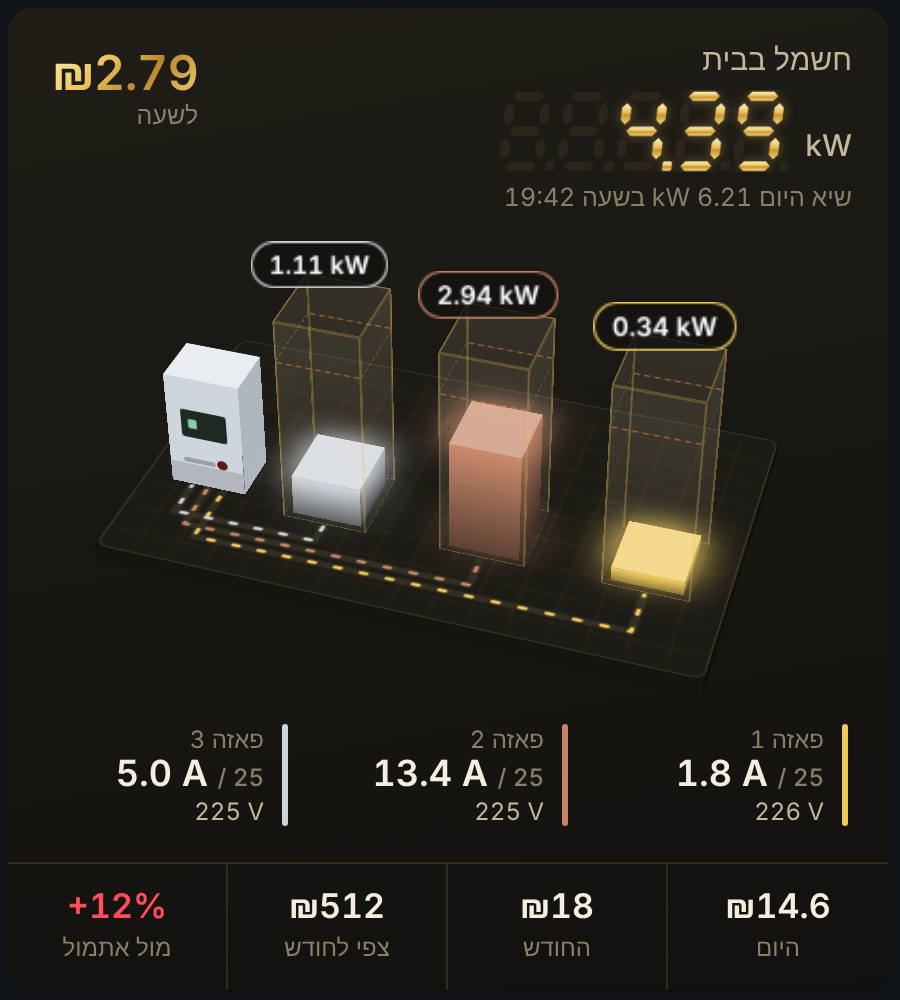
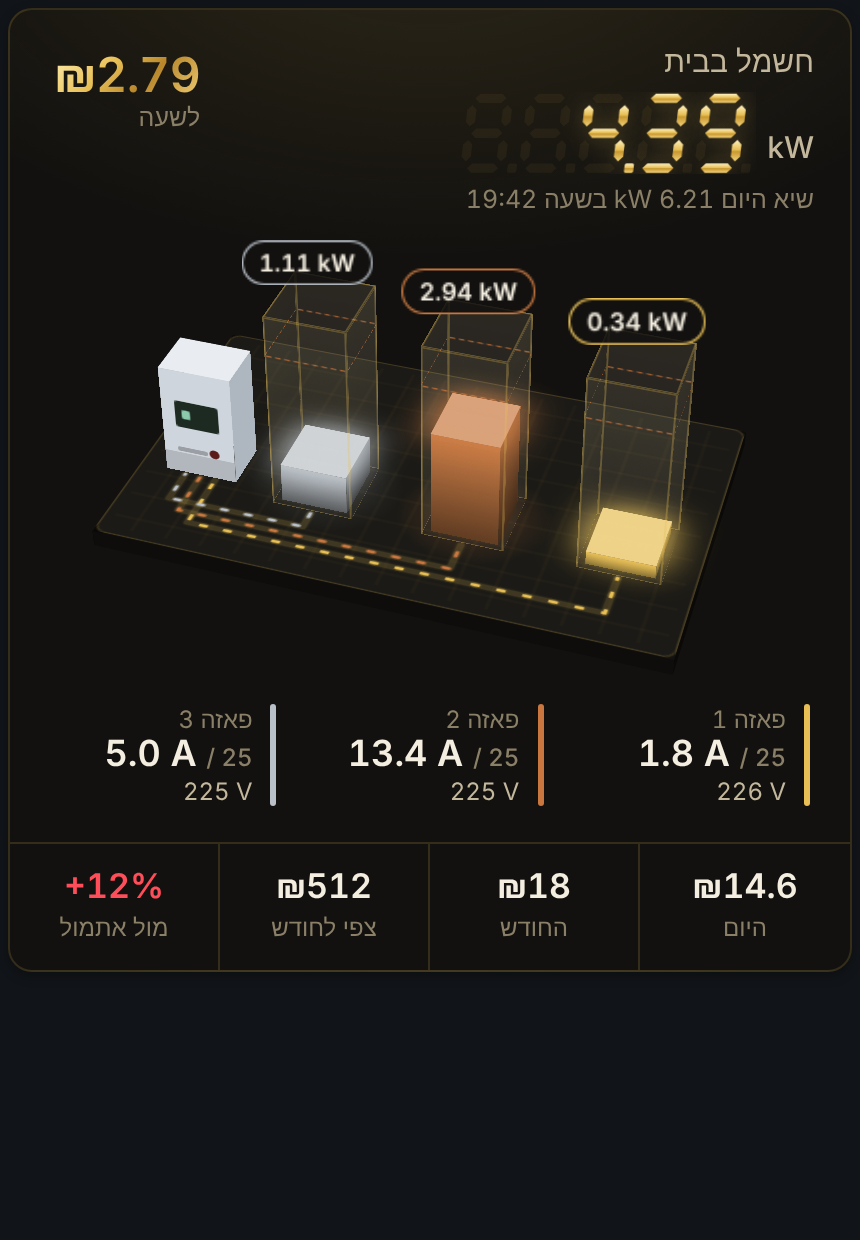
3D card: gold look uses the reader UI's black-gold background in every theme
Claude-Session: https://claude.ai/code/session_01PjC1qJCvEgdXEYctX4qpRp

diff --git a/homeassistant/card/iec-p1-3d-card.js b/homeassistant/card/iec-p1-3d-card.js
@@ -91,7 +91,7 @@ function defaultEntities(meterPrefix) {
 // Phase colours. "gold" matches the reader's own web interface (gold, copper,
 // silver like busbar metals); "classic" is the original cyan/violet/amber.
 const PALETTES = {
-  gold: ["#f0c95c", "#c58468", "#cdd3da"],
+  gold: ["#e8bf55", "#c9773f", "#b9c0c8"],
   classic: ["#2ec5f0", "#9b7cff", "#ffb23e"],
 };
 let PHASE_COLORS = PALETTES.gold;
@@ -237,57 +237,40 @@ const STYLE = `
   --tag-ink: #17212c;
   --focus: #0a6fd6;
 }
-/* gold look (default) */
+/* gold look (default): the same black-and-gold as the reader's own web page,
+   in every Home Assistant theme */
 :host([look="gold"]) {
-  --scene-a: #201d17;
-  --scene-b: #12110f;
   --ink: #f4eee0;
   --ink-2: #c3b79c;
   --ink-3: #8a7f67;
-  --rule: rgba(232, 191, 85, 0.14);
-  --floor: #1d1b16;
-  --floor-edge: #3a3326;
-  --slab-s: #16140f;
-  --slab-e: #110f0b;
+  --rule: rgba(232, 191, 85, 0.16);
+  --floor: #1b1a16;
+  --floor-edge: rgba(232, 191, 85, 0.22);
+  --slab-s: #0e0d0b;
+  --slab-e: #0a0908;
   --grid: rgba(232, 191, 85, 0.06);
   --glass: rgba(255, 236, 190, 0.03);
   --glass-hi: rgba(255, 236, 190, 0.08);
   --glass-edge: rgba(232, 191, 85, 0.3);
-  --lcd-off: rgba(232, 191, 85, 0.07);
-  --lcd-glow: rgba(232, 191, 85, 0.4);
-  --tag-bg: rgba(18, 17, 15, 0.82);
+  --lcd-off: rgba(232, 191, 85, 0.06);
+  --lcd-glow: rgba(232, 191, 85, 0.35);
+  --tag-bg: rgba(18, 17, 15, 0.85);
+  --tag-ink: #f4eee0;
   --focus: #fff3c4;
 }
-:host([look="gold"][theme="light"]) {
-  --scene-a: #fbf7ee;
-  --scene-b: #efe6d2;
-  --ink: #2a2214;
-  --ink-2: #6b5a3a;
-  --ink-3: #93825f;
-  --rule: rgba(150, 110, 30, 0.16);
-  --floor: #fffdf8;
-  --floor-edge: #d9c9a3;
-  --slab-s: #e6d8b8;
-  --slab-e: #d6c49c;
-  --grid: rgba(150, 110, 30, 0.08);
-  --glass: rgba(150, 110, 30, 0.04);
-  --glass-hi: rgba(150, 110, 30, 0.08);
-  --glass-edge: rgba(150, 110, 30, 0.32);
-  --lcd-off: rgba(150, 110, 30, 0.08);
-  --lcd-glow: transparent;
-  --tag-bg: rgba(255, 253, 248, 0.94);
-  --tag-ink: #2a2214;
-  --focus: #8a6418;
+:host([look="gold"]) ha-card {
+  background:
+    radial-gradient(120% 60% at 50% -10%, rgba(232, 191, 85, 0.13), transparent 60%),
+    #12110f;
+  border: 1px solid rgba(232, 191, 85, 0.16);
 }
-:host([look="gold"]) .lcd svg .on { fill: url(#lcdgold); }
-:host([look="gold"][theme="light"]) .lcd svg .on { fill: #8a6418; }
+:host([look="gold"]) .lcd svg .on { fill: url(#lcdgold); filter: drop-shadow(0 0 6px rgba(232, 191, 85, 0.35)); }
 :host([look="gold"]) .rate-val {
   background: linear-gradient(135deg, #fff1b8 0%, #e8bf55 38%, #b8862b 62%, #f2d27a 100%);
   -webkit-background-clip: text;
   background-clip: text;
   color: transparent;
 }
-:host([look="gold"][theme="light"]) .rate-val { background: none; color: #8a6418; }
 ha-card {
   overflow: hidden;
   background: linear-gradient(170deg, var(--scene-a), var(--scene-b));
@@ -965,7 +948,8 @@ class IecP13dCard extends HTMLElement {
     if (!this._hass || !this._config) return;
     if (this._built && !this._changed()) return;
     const dark = this._hass.themes?.darkMode;
-    this.setAttribute("theme", dark === false ? "light" : "dark");
+    const gold = this._config.style !== "classic";
+    this.setAttribute("theme", gold || dark !== false ? "dark" : "light");
     if (!this._built) { this._build(); this._changed(); }
 
     const t = this._t();

diff --git a/README.md b/README.md
@@ -167,7 +167,7 @@ type: custom:iec-p1-3d-card
 | אפשרות | ברירת מחדל | מה היא עושה |
 |---|---|---|
 | `title` | חשמל בבית | הכותרת |
-| `style` | `gold` | `gold` כמו ממשק הקורא, או `classic` בצבעי תכלת, סגול וענבר |
+| `style` | `gold` | `gold`: שחור וזהב כמו ממשק הקורא, בכל ערכת נושא. `classic`: תכלת, סגול וענבר, לפי ערכת הנושא |
 | `language` | `he` | `he` או `en` |
 | `breaker_amps` | נקרא מהקורא | גודל המפסק לכל פאזה, אם רוצים לקבוע ידנית |
 | `meter_prefix` | `sensor.electricity_meter` | אם שינית את שם המכשיר |
